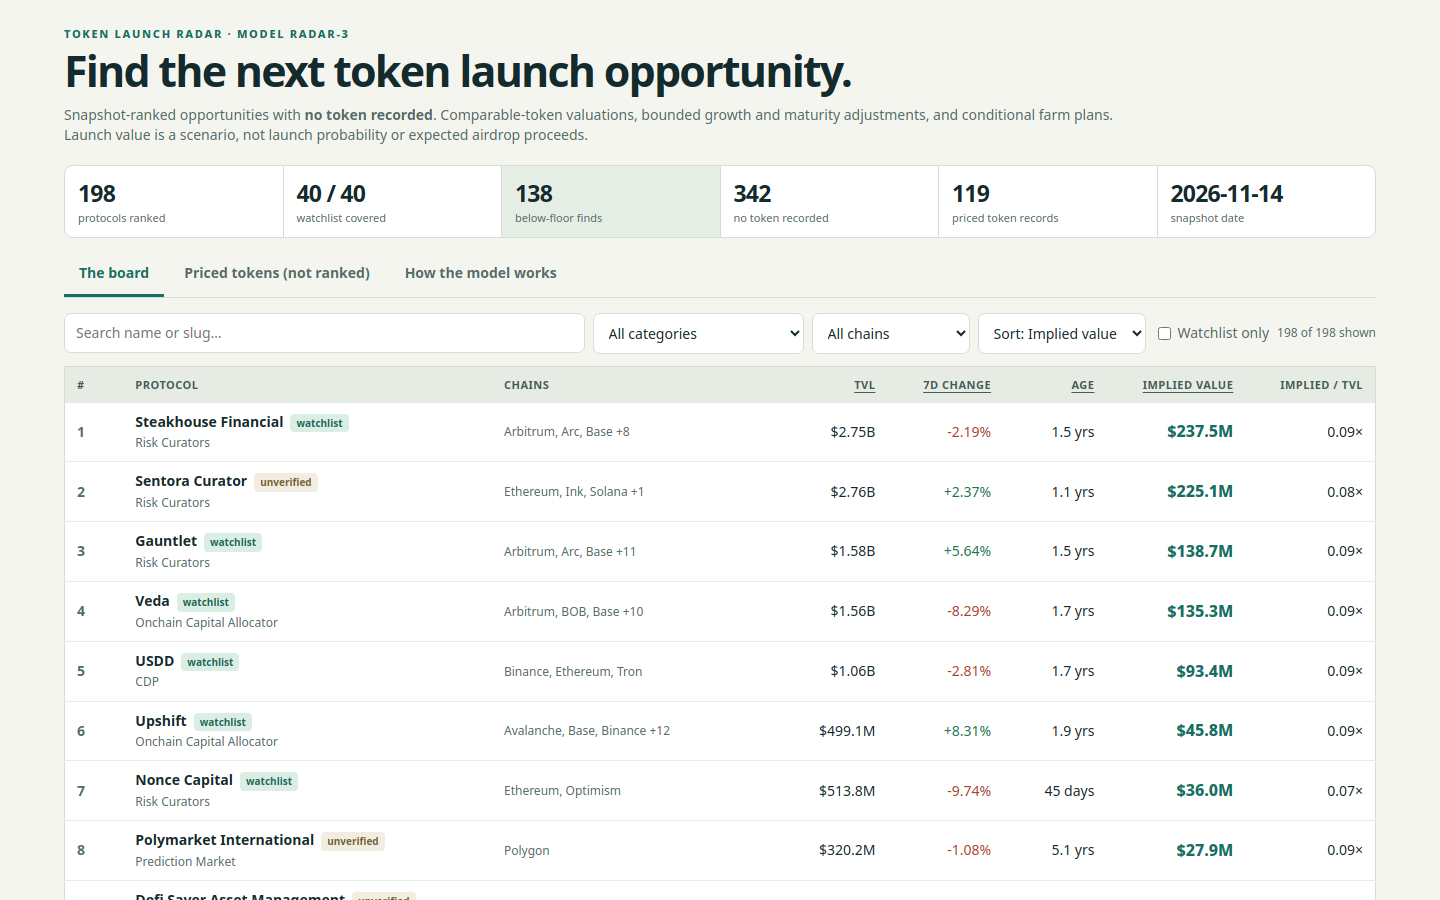
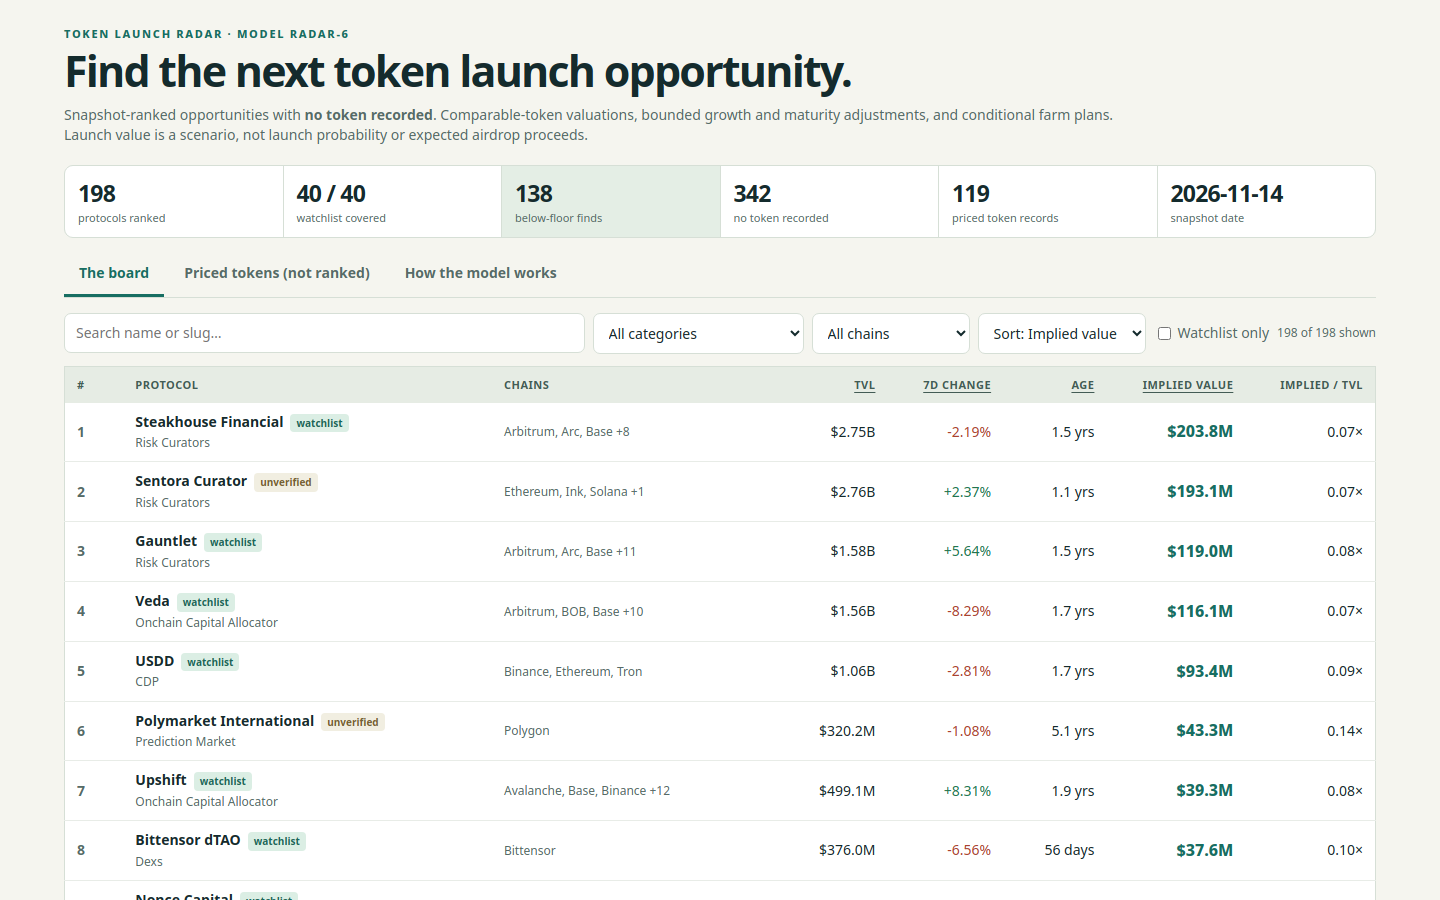
radar-6 (P0): finer calibration families, published peer stats, scenario sensitivity on the method page

diff --git a/lib/model.ts b/lib/model.ts
@@ -57,11 +57,19 @@ export const MODEL: ModelConstants = {
   breadth_max_extra_chains: 5,
 };
 
-/** Category families: peer groups for calibration, not fixed valuation multiples. */
+/**
+ * Category families: peer groups for calibration, not fixed valuation multiples.
+ * The old single "yield & infrastructure" bucket lumped together businesses whose
+ * tokens price very differently — a yield curator's token is not a stablecoin's,
+ * and neither is an insurer's — so it is split into three families. A category
+ * that matches nothing falls into "other" and calibrates on the global median.
+ */
 export const CATEGORY_FAMILIES: { match: string[]; family: string }[] = [
-  { match: ['dex', 'aggregator', 'derivative', 'perpetual', 'options', 'prediction'], family: 'trading venue' },
+  { match: ['dex', 'dex aggregator', 'derivative', 'perpetual', 'options', 'prediction', 'trading'], family: 'trading venue' },
   { match: ['lend', 'cdp', 'collateral', 'money market'], family: 'lending' },
-  { match: ['yield', 'farm', 'vault', 'curator', 'allocator', 'rwa', 'stable', 'insurance', 'infra', 'service'], family: 'yield & infrastructure' },
+  { match: ['yield', 'farm', 'vault', 'curator', 'allocator'], family: 'yield & vaults' },
+  { match: ['stable', 'rwa'], family: 'stablecoins & rwa' },
+  { match: ['insurance', 'infra', 'service'], family: 'insurance & infrastructure' },
 ];
 
 /** Which calibration family a category falls in. */
@@ -74,7 +82,7 @@ export function categoryFamily(category: string | null): { family: string } {
 }
 
 /** The model's version label: the dashboard names it and the rules quote it. */
-export const MODEL_VERSION = 'radar-4';
+export const MODEL_VERSION = 'radar-6';
 
 /** One row of board.json: the ranked board's row. */
 export interface BoardRow {
@@ -136,6 +144,24 @@ export interface LiveRow {
   change_7d: number | null;
 }
 
+/**
+ * Scenario sensitivity for one top-10 row: the implied value under the family's
+ * lower-quartile multiple (conservative) and upper-quartile multiple (generous),
+ * against the base multiple, and the rank range the row takes across the three
+ * scenarios. A row whose rank barely moves is a robust call; one that swings
+ * from 2nd to 40th is a calibration artefact wearing a rank.
+ */
+export interface SensitivityRow {
+  rank: number;
+  slug: string;
+  name: string;
+  base: number;
+  conservative: number;
+  generous: number;
+  rankLow: number;
+  rankHigh: number;
+}
+
 /** Everything the dashboard needs: the board, the live set, and the model it runs. */
 export interface RadarData {
   as_of: string;
@@ -152,6 +178,7 @@ export interface RadarData {
   unpriced_token_records: number;
   live_size: number;
   total_pre_token: number;
+  sensitivity: SensitivityRow[];
   rows: RadarRow[];
   live: LiveRow[];
 }
@@ -232,10 +259,42 @@ function isProductLike(p: SnapshotProtocol): boolean {
   return false;
 }
 
-/** Calibration evidence for one peer group: sample size, the clipped median ratio, the shrunk multiple. */
-export interface PeerCalibration { n: number; median: number | null; multiple: number }
+/**
+ * Calibration evidence for one peer group, published on the dashboard so a reader can
+ * check the multiple instead of taking it on trust: sample size, the raw (unclipped)
+ * median ratio, the clipped median and quartiles it was actually taken from, how many
+ * peer ratios the clip band cut, the shrunk multiple the board uses, where that
+ * multiple came from when the family sample is thin, and three representative peers
+ * nearest the family's median ratio.
+ */
+export interface PeerCalibration {
+  n: number;
+  median: number | null;
+  multiple: number;
+  rawMedian: number | null;
+  q1: number | null;
+  q3: number | null;
+  clipped: number;
+  fallback: 'family' | 'global';
+  typicalPeers: string[];
+}
 
-const FAMILIES = ['trading venue', 'lending', 'yield & infrastructure', 'other'];
+const FAMILIES = [
+  'trading venue',
+  'lending',
+  'yield & vaults',
+  'stablecoins & rwa',
+  'insurance & infrastructure',
+  'other',
+];
+
+/** The lower quartile of a sorted list (linear interpolation); null on an empty list. */
+function quartile(sorted: number[], q: number): number | null {
+  if (!sorted.length) return null;
+  const pos = (sorted.length - 1) * q;
+  const lo = Math.floor(pos), hi = Math.ceil(pos);
+  return sorted[lo]! + (sorted[hi]! - sorted[lo]!) * (pos - lo);
+}
 
 /** Peer ratios are clipped to this band before any median is taken, so one absurd print cannot rule a family. */
 const boundedRatio = (r: number) => Math.max(0.05, Math.min(2, r));
@@ -265,13 +324,48 @@ export function calibrate(snapshot: Snapshot, model: ModelConstants = MODEL): Mo
   const peers = [...unique.values()];
   const ratios = peers.map(p => boundedRatio(p.mcap_usd! / p.tvl_usd));
   const center = median(ratios) ?? model.default_multiple;
+  const globalRaw = peers.map(p => p.mcap_usd! / p.tvl_usd);
+  const globalSorted = [...ratios].sort((a, b) => a - b);
+  const global: PeerCalibration = {
+    n: ratios.length,
+    median: median(ratios),
+    multiple: center,
+    rawMedian: median(globalRaw),
+    q1: quartile(globalSorted, 0.25),
+    q3: quartile(globalSorted, 0.75),
+    clipped: globalRaw.filter(r => r < 0.05 || r > 2).length,
+    fallback: 'global',
+    typicalPeers: typicalPeers(peers, median(ratios)),
+  };
   const families: Record<string, PeerCalibration> = {};
   for (const family of FAMILIES) {
-    const xs = peers.filter(p => categoryFamily(p.category).family === family).map(p => boundedRatio(p.mcap_usd! / p.tvl_usd));
+    const members = peers.filter(p => categoryFamily(p.category).family === family);
+    const raw = members.map(p => p.mcap_usd! / p.tvl_usd);
+    const xs = raw.map(boundedRatio);
+    const sorted = [...xs].sort((a, b) => a - b);
     const m = median(xs), w = xs.length / (xs.length + 12);
-    families[family] = { n: xs.length, median: m, multiple: (m ?? center) * w + center * (1 - w) };
+    families[family] = {
+      n: xs.length,
+      median: m,
+      multiple: (m ?? center) * w + center * (1 - w),
+      rawMedian: median(raw),
+      q1: quartile(sorted, 0.25),
+      q3: quartile(sorted, 0.75),
+      clipped: raw.filter(r => r < 0.05 || r > 2).length,
+      fallback: xs.length > 0 ? 'family' : 'global',
+      typicalPeers: typicalPeers(members, m),
+    };
   }
-  return { ...model, global_peer: { n: ratios.length, median: median(ratios), multiple: center }, peer_multiples: families };
+  return { ...model, global_peer: global, peer_multiples: families };
+}
+
+/** Up to three peers nearest the group's median ratio, by slug, most typical first. */
+function typicalPeers(members: SnapshotProtocol[], center: number | null): string[] {
+  if (center === null || !members.length) return [];
+  return [...members]
+    .sort((a, b) => Math.abs(boundedRatio(a.mcap_usd! / a.tvl_usd) - center) - Math.abs(boundedRatio(b.mcap_usd! / b.tvl_usd) - center))
+    .slice(0, 3)
+    .map(p => p.slug);
 }
 
 /** The snapshot's protocols indexed by slug. */
@@ -394,6 +488,48 @@ export function liveRows(snapshot: Snapshot): LiveRow[] {
     }));
 }
 
+/**
+ * Scenario sensitivity for the top 10 rows. Each scenario re-prices every board row
+ * with a different multiple from the same peer evidence: the family's lower quartile
+ * (conservative) or upper quartile (generous), shrunk toward the global quartile with
+ * the same n/(n+12) weight the base multiple uses. Ranks are then recomputed under
+ * each scenario, so the table shows how far a row's rank moves when the calibration,
+ * not the protocol, changes.
+ */
+export function sensitivityRows(snapshot: Snapshot, model: ModelConstants, board: BoardRow[]): SensitivityRow[] {
+  const index = bySlug(snapshot.protocols);
+  const global = model.global_peer;
+  const scenarioImplied = (row: BoardRow, which: 'q1' | 'q3'): number => {
+    const p = index.get(row.slug)!;
+    const v = impliedValue(p, snapshot.as_of, model);
+    const fam = model.peer_multiples?.[row.model.category_family];
+    const n = fam?.n ?? 0, w = n / (n + 12);
+    const famQ = which === 'q1' ? fam?.q1 : fam?.q3;
+    const globQ = which === 'q1' ? global?.q1 : global?.q3;
+    const q = famQ ?? globQ ?? (which === 'q1' ? v.multiple * 0.75 : v.multiple * 1.25);
+    const gq = globQ ?? q;
+    const mult = q * w + gq * (1 - w);
+    return Math.max(1, Math.round(p.tvl_usd * mult * v.growthMult * v.maturityMult * v.breadthMult));
+  };
+  const rankUnder = (values: Map<string, number>): Map<string, number> => {
+    const order = [...board].sort((a, b) => values.get(b.slug)! - values.get(a.slug)! || (a.slug < b.slug ? -1 : 1));
+    return new Map(order.map((r, i) => [r.slug, i + 1]));
+  };
+  const cons = new Map(board.map(r => [r.slug, scenarioImplied(r, 'q1')]));
+  const gen = new Map(board.map(r => [r.slug, scenarioImplied(r, 'q3')]));
+  const consRank = rankUnder(cons), genRank = rankUnder(gen);
+  return board.slice(0, 10).map(r => ({
+    rank: r.rank,
+    slug: r.slug,
+    name: r.name,
+    base: r.implied_value_usd,
+    conservative: cons.get(r.slug)!,
+    generous: gen.get(r.slug)!,
+    rankLow: Math.min(r.rank, consRank.get(r.slug)!, genRank.get(r.slug)!),
+    rankHigh: Math.max(r.rank, consRank.get(r.slug)!, genRank.get(r.slug)!),
+  }));
+}
+
 /** Everything the dashboard renders, from the snapshot. */
 export function buildRadar(snapshot: Snapshot, model: ModelConstants = MODEL): { board: BoardRow[]; radar: RadarData } {
   model = calibrate(snapshot, model);
@@ -415,6 +551,7 @@ export function buildRadar(snapshot: Snapshot, model: ModelConstants = MODEL): {
     unpriced_token_records: snapshot.protocols.filter(p => !isPreToken(p) && !(p.mcap_usd !== null && p.mcap_usd > 0)).length,
     live_size: live.length,
     total_pre_token: snapshot.protocols.filter(isPreToken).length,
+    sensitivity: sensitivityRows(snapshot, model, board),
     rows: board.map((row) => ({
       rank: row.rank,
       slug: row.slug,

diff --git a/dashboard/app.js b/dashboard/app.js
@@ -48,7 +48,7 @@
     });
   }
 
-  // The model, recomputed in the page: identical constants and formula to lib/model.ts (radar-4).
+  // The model, recomputed in the page: identical constants and formula to lib/model.ts (radar-6).
   function impliedOf(row) {
     var m = DATA.model;
     var growth = Math.min(m.growth_cap, Math.max(m.growth_floor, row.change_7d === null || row.change_7d === undefined ? 0 : row.change_7d));
@@ -222,8 +222,15 @@
 
   function methodView() {
     var m = DATA.model;
-    var mults = DATA.category_multiples.map(function(c) { return '<tr><td>'+esc(c.family)+'</td><td class="num">'+c.n+'</td><td class="num">'+(c.median===null?'n/a':c.median.toFixed(3))+'</td><td class="num">'+c.multiple.toFixed(3)+'×</td></tr>'; }).join('');
-    return header()+'<section class="method"><h2>Transparent valuation</h2><p class="formula">TVL × peer multiple × growth × tracking maturity × chain breadth</p><p>Calibrate from positive market-cap records at or above the watchlist TVL floor, excluding product-like records. Deduplicate by token identifier (symbol fallback; highest TVL wins). Bound each market-cap/TVL ratio to 0.05–2.00; compute the overall median, then shrink each family median towards it with weight n/(n+12). If no peer exists, use 0.30 as an explicit fallback.</p><p>Global peer pool: <strong>'+m.global_peer.n+'</strong> · median / fallback: <strong>'+m.global_peer.multiple.toFixed(3)+'×</strong></p><table><thead><tr><th>Family</th><th>Peers</th><th>Bounded median</th><th>Used multiple</th></tr></thead><tbody>'+mults+'</tbody></table><h3>Bounded adjustments</h3><p>Growth: 1 + clamp(7d TVL change, −40%, +60%) × 0.25 / 100 (0.90–1.15); missing = 0%. Maturity: 0.85 + 0.30 × min(tracking age, 1460 days)/1460; missing = 730 days. Breadth: 1 + 0.02 × min(max(chain count−1, 0), 5). These are heuristic, not fitted launch effects.</p><h3>Coverage and limitations</h3><p>All '+DATA.watchlist_covered+' official watchlist rows are included; '+DATA.outside_size+' more pass observable category, name and token-field screens. '+DATA.early_size+' are below the floor. Parent-protocol relationships are absent from the snapshot, so outside-watchlist candidates remain provisional. No token recorded is not proof of no token.</p><p>Current circulating cap is a proxy for conditional launch market cap, not FDV or historical launch calibration. TVL can be duplicated or driven by incentives; category labels, short-term TVL changes and tracking age are imperfect. No airdrop probability, distribution or return is inferred. The model is deterministic and uses only sealed input.</p></section>'+footer();
+    var g = m.global_peer;
+    var fmt3 = function(v) { return v === null || v === undefined ? 'n/a' : v.toFixed(3); };
+    var mults = DATA.category_multiples.map(function(c) {
+      return '<tr><td>'+esc(c.family)+'</td><td class="num">'+c.n+'</td><td class="num">'+fmt3(c.rawMedian)+'</td><td class="num">'+fmt3(c.median)+'</td><td class="num">'+(c.q1===null||c.q3===null?'n/a':c.q1.toFixed(3)+'–'+c.q3.toFixed(3))+'</td><td class="num">'+c.clipped+'</td><td>'+(c.fallback==='family'?'family peers':'global median')+'</td><td>'+(c.typicalPeers&&c.typicalPeers.length?c.typicalPeers.map(esc).join(', '):'—')+'</td><td class="num">'+c.multiple.toFixed(3)+'×</td></tr>';
+    }).join('');
+    var sens = (DATA.sensitivity||[]).map(function(s) {
+      return '<tr><td class="num">'+s.rank+'</td><td>'+esc(s.name)+'</td><td class="num">'+usd.format(s.conservative)+'</td><td class="num">'+usd.format(s.base)+'</td><td class="num">'+usd.format(s.generous)+'</td><td class="num">'+(s.rankLow===s.rankHigh?(''+s.rankLow):(s.rankLow+'–'+s.rankHigh))+'</td></tr>';
+    }).join('');
+    return header()+'<section class="method"><h2>Transparent valuation</h2><p class="formula">TVL × peer multiple × growth × tracking maturity × chain breadth</p><p>Calibrate from positive market-cap records at or above the watchlist TVL floor, excluding product-like records. Deduplicate by token identifier (symbol fallback; highest TVL wins). Bound each market-cap/TVL ratio to 0.05–2.00; compute the overall median, then shrink each family median towards it with weight n/(n+12). If no peer exists, use 0.30 as an explicit fallback.</p><p>Global peer pool: <strong>'+g.n+'</strong> peers · raw median <strong>'+fmt3(g.rawMedian)+'×</strong> · bounded median <strong>'+fmt3(g.median)+'×</strong> · IQR <strong>'+(g.q1===null?'n/a':g.q1.toFixed(3)+'–'+g.q3.toFixed(3))+'</strong> · clipped <strong>'+g.clipped+'</strong> · used multiple <strong>'+g.multiple.toFixed(3)+'×</strong></p><table><thead><tr><th>Family</th><th>Peers</th><th>Raw median</th><th>Bounded median</th><th>IQR</th><th>Clipped</th><th>Multiple from</th><th>Typical peers</th><th>Used multiple</th></tr></thead><tbody>'+mults+'</tbody></table><p class="hint">Raw median is the median of the unclipped market-cap/TVL ratios; bounded median and IQR are taken after clipping ratios to 0.05–2.00. “Clipped” counts the peers the band cut. Families with no peers fall back to the global median and say so; typical peers are the three records nearest the family median.</p><h3>Scenario sensitivity — top 10</h3><p>Each row re-priced with its family’s lower-quartile multiple (conservative) and upper-quartile multiple (generous), shrunk toward the global quartile the same way the base multiple is. The rank range is the row’s best and worst rank across the three scenarios: a row that stays put is a robust call, one that swings is a calibration artefact wearing a rank.</p><table><thead><tr><th>Rank</th><th>Protocol</th><th>Conservative</th><th>Base</th><th>Generous</th><th>Rank range</th></tr></thead><tbody>'+sens+'</tbody></table><h3>Bounded adjustments</h3><p>Growth: 1 + clamp(7d TVL change, −40%, +60%) × 0.25 / 100 (0.90–1.15); missing = 0%. Maturity: 0.85 + 0.30 × min(tracking age, 1460 days)/1460; missing = 730 days. Breadth: 1 + 0.02 × min(max(chain count−1, 0), 5). These are heuristic, not fitted launch effects.</p><h3>Coverage and limitations</h3><p>All '+DATA.watchlist_covered+' official watchlist rows are included; '+DATA.outside_size+' more pass observable category, name and token-field screens. '+DATA.early_size+' are below the floor. Parent-protocol relationships are absent from the snapshot, so outside-watchlist candidates remain provisional. No token recorded is not proof of no token.</p><p>Current circulating cap is a proxy for conditional launch market cap, not FDV or historical launch calibration. TVL can be duplicated or driven by incentives; category labels, short-term TVL changes and tracking age are imperfect. No airdrop probability, distribution or return is inferred. The model is deterministic and uses only sealed input.</p></section>'+footer();
   }
 
   function render() {

diff --git a/tests/model.test.ts b/tests/model.test.ts
@@ -2,7 +2,7 @@ import { test } from 'node:test';
 import assert from 'node:assert/strict';
 import {
   buildRadar, boardIssue, parseSnapshot, calibrate, isRankable, impliedValue,
-  MODEL, farmSteps,
+  MODEL, farmSteps, categoryFamily,
 } from '../lib/model.ts';
 import type { Snapshot, SnapshotProtocol } from '../lib/model.ts';
 
@@ -91,6 +91,49 @@ test('malformed input and over-cap board rejected', () => {
   const { board } = buildRadar(fixture);
   board[0].implied_value_usd = 100_000_000_000_001;
   assert.match(boardIssue(board, fixture)!, /implied value/);
+});
+
+test('calibration families are split, not lumped', () => {
+  // Category keywords map to distinct families: a curator is not a stablecoin.
+  assert.equal(categoryFamily('Yield Aggregator').family, 'yield & vaults');
+  assert.equal(categoryFamily('Risk Curator').family, 'yield & vaults');
+  assert.equal(categoryFamily('Stablecoins').family, 'stablecoins & rwa');
+  assert.equal(categoryFamily('RWA').family, 'stablecoins & rwa');
+  assert.equal(categoryFamily('Insurance').family, 'insurance & infrastructure');
+  assert.equal(categoryFamily('Dexes').family, 'trading venue');
+  assert.equal(categoryFamily('Dex Aggregator').family, 'trading venue');
+  assert.equal(categoryFamily('Basis Trading').family, 'trading venue');
+  assert.equal(categoryFamily('Something Unknown').family, 'other');
+  const m = calibrate(fixture);
+  assert.ok('yield & vaults' in m.peer_multiples!);
+  assert.ok('stablecoins & rwa' in m.peer_multiples!);
+  assert.ok('insurance & infrastructure' in m.peer_multiples!);
+  assert.ok(!('yield & infrastructure' in m.peer_multiples!));
+  // The fixture's priced set is all Dexes/Lending, so the yield family is empty
+  // and must say it falls back to the global median, with no typical peers.
+  const y = m.peer_multiples!['yield & vaults']!;
+  assert.equal(y.n, 0);
+  assert.equal(y.fallback, 'global');
+  assert.deepEqual(y.typicalPeers, []);
+  assert.equal(y.multiple, m.global_peer!.multiple);
+  // A populated family publishes its evidence: raw median, quartiles, clip count.
+  const lending = m.peer_multiples!['lending']!;
+  assert.ok(lending.n > 0);
+  assert.equal(lending.fallback, 'family');
+  assert.ok(lending.rawMedian !== null && lending.rawMedian > 0);
+  assert.ok(lending.q1 !== null && lending.q3 !== null && lending.q1 <= lending.q3);
+  assert.ok(Number.isInteger(lending.clipped) && lending.clipped >= 0);
+  assert.ok(lending.typicalPeers.length > 0 && lending.typicalPeers.length <= 3);
+});
+
+test('scenario sensitivity brackets the base value and rank', () => {
+  const { radar } = buildRadar(parseSnapshot(JSON.stringify(fixture)));
+  assert.equal(radar.sensitivity.length, 10);
+  for (const s of radar.sensitivity) {
+    assert.ok(s.conservative <= s.base && s.base <= s.generous);
+    assert.ok(s.rankLow <= s.rank && s.rank <= s.rankHigh);
+    assert.ok(s.rankLow >= 1 && s.rankHigh <= radar.board_size);
+  }
 });
 
 test('conditional farm plans satisfy step gate', () => {
